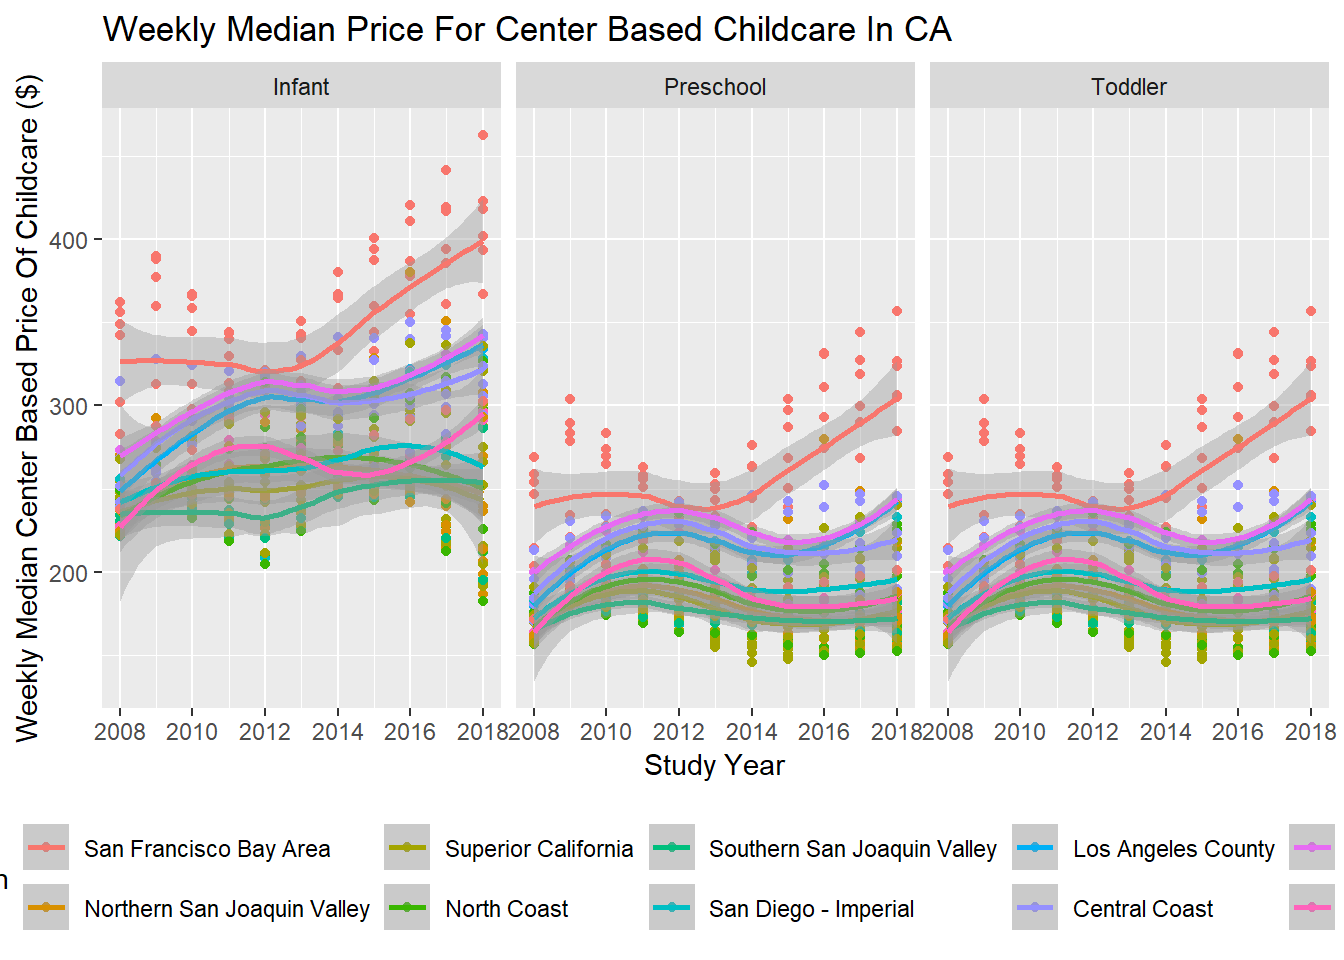
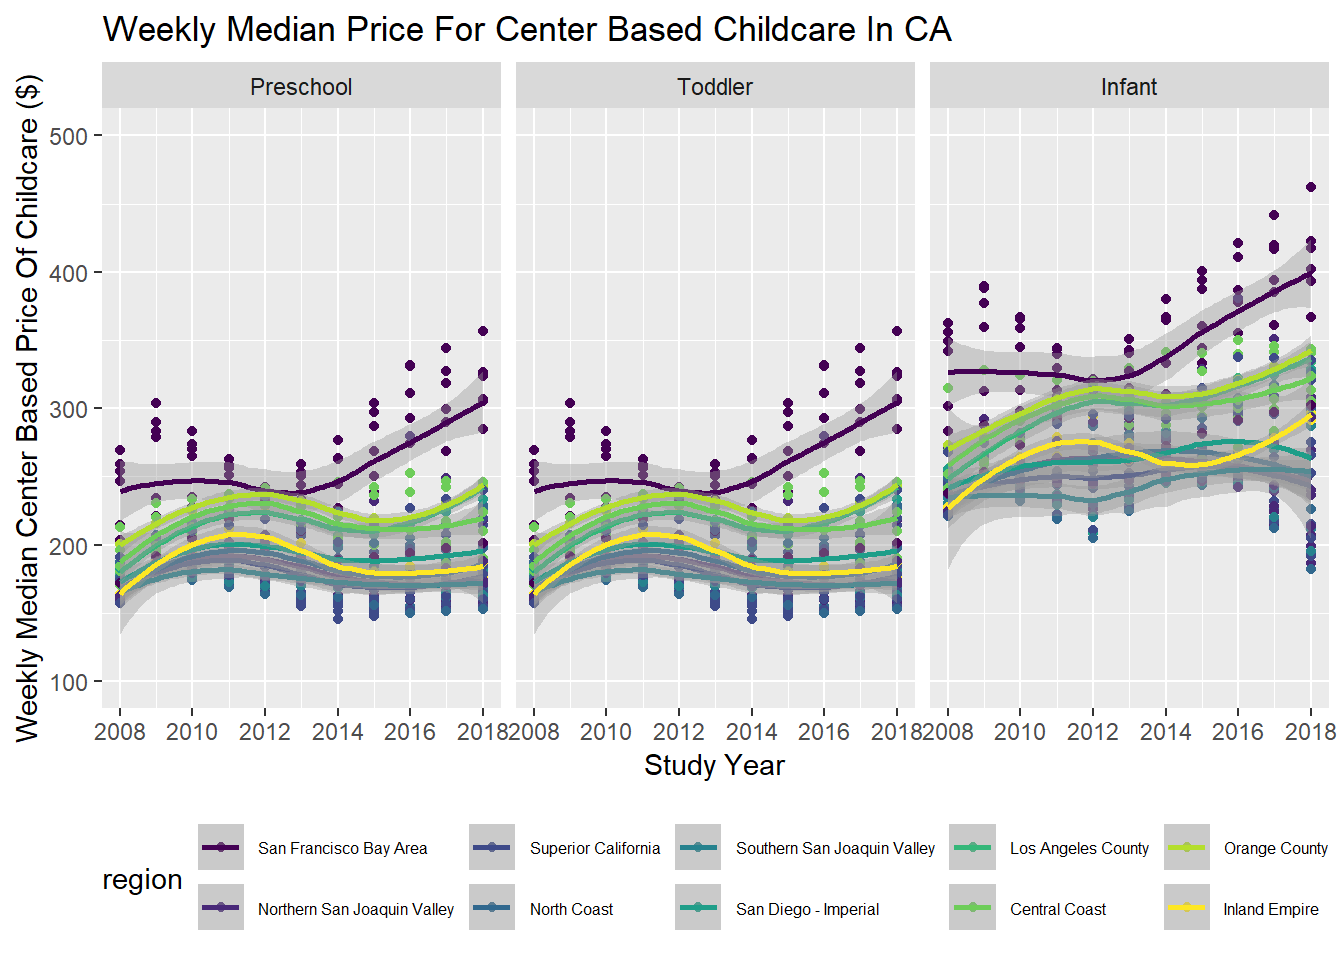
Almost done with quest #6 graph

diff --git a/lab-6-mckegneyr.html b/lab-6-mckegneyr.html
@@ -256,26 +256,26 @@ pre > code.sourceCode > span > a:first-child::before { text-decoration: underlin
 <p><strong>6. Recreate the plot (look at online instructions) that shows, for all ten regions, the change over time of the full-time median price for center-based childcare for infants, toddlers, and preschoolers. Recreate the plot. You do not have to replicate the exact colors or theme, but your plot should have the same content, including the order of the facets and legend, reader-friendly labels, axes breaks, and a smooth function.</strong></p>
 <div class="cell">
 <div class="sourceCode cell-code" id="annotated-cell-7"><pre class="sourceCode r code-annotation-code code-with-copy code-annotated"><code class="sourceCode r"><span id="annotated-cell-7-1"><a href="#annotated-cell-7-1" aria-hidden="true" tabindex="-1"></a>ca_childcare <span class="sc">|&gt;</span></span>
-<span id="annotated-cell-7-2"><a href="#annotated-cell-7-2" aria-hidden="true" tabindex="-1"></a>  <span class="fu">select</span>(study_year, county_name, mc_infant, mc_toddler, mc_preschool, region) <span class="sc">|&gt;</span></span>
-<span id="annotated-cell-7-3"><a href="#annotated-cell-7-3" aria-hidden="true" tabindex="-1"></a><span class="co">#  mutate(study_year = years(study_year)) |&gt;</span></span>
-<span id="annotated-cell-7-4"><a href="#annotated-cell-7-4" aria-hidden="true" tabindex="-1"></a>  <span class="fu">pivot_longer</span>(<span class="at">cols =</span> <span class="fu">starts_with</span>(<span class="st">"mc_"</span>),</span>
-<span id="annotated-cell-7-5"><a href="#annotated-cell-7-5" aria-hidden="true" tabindex="-1"></a>               <span class="at">names_to =</span> <span class="st">"childcare_youth_type"</span>, </span>
-<a class="code-annotation-anchor" data-target-cell="annotated-cell-7" data-target-annotation="3" onclick="event.preventDefault();" href="">3</a><span id="annotated-cell-7-6" class="code-annotation-target"><a href="#annotated-cell-7-6" aria-hidden="true" tabindex="-1"></a>               <span class="at">values_to =</span> <span class="st">"med_center_childcare_value"</span>) <span class="sc">|&gt;</span></span>
-<span id="annotated-cell-7-7"><a href="#annotated-cell-7-7" aria-hidden="true" tabindex="-1"></a>  <span class="fu">mutate</span>(<span class="at">childcare_youth_type =</span> <span class="fu">fct_recode</span>(childcare_youth_type, </span>
-<a class="code-annotation-anchor" data-target-cell="annotated-cell-7" data-target-annotation="4" onclick="event.preventDefault();" href="">4</a><span id="annotated-cell-7-8" class="code-annotation-target"><a href="#annotated-cell-7-8" aria-hidden="true" tabindex="-1"></a>                                           <span class="st">"Infant"</span> <span class="ot">=</span> <span class="st">"mc_infant"</span>,</span>
-<span id="annotated-cell-7-9"><a href="#annotated-cell-7-9" aria-hidden="true" tabindex="-1"></a>                                           <span class="st">"Toddler"</span> <span class="ot">=</span> <span class="st">"mc_toddler"</span>,                </span>
-<span id="annotated-cell-7-10"><a href="#annotated-cell-7-10" aria-hidden="true" tabindex="-1"></a>                                           <span class="st">"Preschool"</span> <span class="ot">=</span> <span class="st">"mc_preschool"</span>)) <span class="sc">|&gt;</span></span>
-<span id="annotated-cell-7-11"><a href="#annotated-cell-7-11" aria-hidden="true" tabindex="-1"></a><span class="co">#  mutate(med_center_childcare_value = as.factor(med_center_childcare_value)) |&gt;</span></span>
-<span id="annotated-cell-7-12"><a href="#annotated-cell-7-12" aria-hidden="true" tabindex="-1"></a>  <span class="fu">ggplot</span>() <span class="sc">+</span></span>
-<span id="annotated-cell-7-13"><a href="#annotated-cell-7-13" aria-hidden="true" tabindex="-1"></a>  <span class="fu">geom_point</span>(<span class="fu">aes</span>(<span class="at">x =</span> study_year, <span class="at">y =</span> med_center_childcare_value, <span class="at">color =</span> region)) <span class="sc">+</span></span>
-<span id="annotated-cell-7-14"><a href="#annotated-cell-7-14" aria-hidden="true" tabindex="-1"></a>  <span class="fu">geom_smooth</span>(<span class="fu">aes</span>(<span class="at">x =</span> study_year, <span class="at">y =</span> med_center_childcare_value, <span class="at">color =</span> region)) <span class="sc">+</span></span>
-<span id="annotated-cell-7-15"><a href="#annotated-cell-7-15" aria-hidden="true" tabindex="-1"></a>  <span class="fu">scale_y_continuous</span>(<span class="at">breaks =</span> <span class="fu">c</span>(<span class="dv">100</span>, <span class="dv">200</span>, <span class="dv">300</span>, <span class="dv">400</span>, <span class="dv">500</span>)) <span class="sc">+</span></span>
-<span id="annotated-cell-7-16"><a href="#annotated-cell-7-16" aria-hidden="true" tabindex="-1"></a>  <span class="fu">scale_x_continuous</span>(<span class="at">breaks =</span> <span class="fu">c</span>(<span class="dv">2008</span>, <span class="dv">2010</span>, <span class="dv">2012</span>, <span class="dv">2014</span>, <span class="dv">2016</span>, <span class="dv">2018</span>)) <span class="sc">+</span></span>
-<span id="annotated-cell-7-17"><a href="#annotated-cell-7-17" aria-hidden="true" tabindex="-1"></a>  <span class="fu">facet_wrap</span>(<span class="sc">~</span> childcare_youth_type) <span class="sc">+</span></span>
-<span id="annotated-cell-7-18"><a href="#annotated-cell-7-18" aria-hidden="true" tabindex="-1"></a>  <span class="fu">labs</span>(<span class="at">title =</span> <span class="st">"Weekly Median Price For Center Based Childcare In CA"</span>,</span>
-<span id="annotated-cell-7-19"><a href="#annotated-cell-7-19" aria-hidden="true" tabindex="-1"></a>       <span class="at">x =</span> <span class="st">"Study Year"</span>,</span>
-<span id="annotated-cell-7-20"><a href="#annotated-cell-7-20" aria-hidden="true" tabindex="-1"></a>       <span class="at">y =</span> <span class="st">"Weekly Median Center Based Price Of Childcare ($)"</span>) <span class="sc">+</span></span>
-<span id="annotated-cell-7-21"><a href="#annotated-cell-7-21" aria-hidden="true" tabindex="-1"></a>  <span class="fu">theme</span>(<span class="at">legend.position =</span> <span class="st">"bottom"</span>)</span><div class="code-annotation-gutter-bg"></div><div class="code-annotation-gutter"></div></code><button title="Copy to Clipboard" class="code-copy-button"><i class="bi"></i></button></pre></div>
+<span id="annotated-cell-7-2"><a href="#annotated-cell-7-2" aria-hidden="true" tabindex="-1"></a>  <span class="fu">select</span>(study_year, county_name, mc_infant, mc_toddler, mc_preschool, region) <span class="sc">|&gt;</span> <span class="co"># Select cols used</span></span>
+<span id="annotated-cell-7-3"><a href="#annotated-cell-7-3" aria-hidden="true" tabindex="-1"></a>  <span class="fu">pivot_longer</span>(<span class="at">cols =</span> <span class="fu">starts_with</span>(<span class="st">"mc_"</span>), <span class="co"># Merge three numerical cols into one, select cols by "mc_"</span></span>
+<span id="annotated-cell-7-4"><a href="#annotated-cell-7-4" aria-hidden="true" tabindex="-1"></a>               <span class="at">names_to =</span> <span class="st">"childcare_youth_type"</span>, <span class="co"># Move three categorical vars into a col</span></span>
+<span id="annotated-cell-7-5"><a href="#annotated-cell-7-5" aria-hidden="true" tabindex="-1"></a>               <span class="at">values_to =</span> <span class="st">"med_center_childcare_value"</span>) <span class="sc">|&gt;</span> <span class="co"># Move all numerical values into another col</span></span>
+<a class="code-annotation-anchor" data-target-cell="annotated-cell-7" data-target-annotation="3" onclick="event.preventDefault();" href="">3</a><span id="annotated-cell-7-6" class="code-annotation-target"><a href="#annotated-cell-7-6" aria-hidden="true" tabindex="-1"></a>  <span class="fu">mutate</span>(<span class="at">childcare_youth_type =</span> <span class="fu">fct_recode</span>(childcare_youth_type,</span>
+<a class="code-annotation-anchor" data-target-cell="annotated-cell-7" data-target-annotation="4" onclick="event.preventDefault();" href="">4</a><span id="annotated-cell-7-7" class="code-annotation-target"><a href="#annotated-cell-7-7" aria-hidden="true" tabindex="-1"></a>                                           <span class="st">"Infant"</span> <span class="ot">=</span> <span class="st">"mc_infant"</span>,</span>
+<span id="annotated-cell-7-8"><a href="#annotated-cell-7-8" aria-hidden="true" tabindex="-1"></a>                                           <span class="st">"Toddler"</span> <span class="ot">=</span> <span class="st">"mc_toddler"</span>,                </span>
+<span id="annotated-cell-7-9"><a href="#annotated-cell-7-9" aria-hidden="true" tabindex="-1"></a>                                           <span class="st">"Preschool"</span> <span class="ot">=</span> <span class="st">"mc_preschool"</span>)) <span class="sc">|&gt;</span> <span class="co"># Change names of categorical col variables into simple description for graph </span></span>
+<span id="annotated-cell-7-10"><a href="#annotated-cell-7-10" aria-hidden="true" tabindex="-1"></a>  <span class="fu">ggplot</span>() <span class="sc">+</span> </span>
+<span id="annotated-cell-7-11"><a href="#annotated-cell-7-11" aria-hidden="true" tabindex="-1"></a>  <span class="fu">geom_point</span>(<span class="fu">aes</span>(<span class="at">x =</span> study_year, <span class="at">y =</span> med_center_childcare_value, <span class="at">color =</span> region)) <span class="sc">+</span></span>
+<span id="annotated-cell-7-12"><a href="#annotated-cell-7-12" aria-hidden="true" tabindex="-1"></a>  <span class="fu">geom_smooth</span>(<span class="fu">aes</span>(<span class="at">x =</span> study_year, <span class="at">y =</span> med_center_childcare_value, <span class="at">color =</span> region)) <span class="sc">+</span> </span>
+<a class="code-annotation-anchor" data-target-cell="annotated-cell-7" data-target-annotation="5" onclick="event.preventDefault();" href="">5</a><span id="annotated-cell-7-13" class="code-annotation-target"><a href="#annotated-cell-7-13" aria-hidden="true" tabindex="-1"></a>  <span class="fu">facet_wrap</span>(<span class="sc">~</span> <span class="fu">fct_reorder</span>(childcare_youth_type, med_center_childcare_value)) <span class="sc">+</span></span>
+<span id="annotated-cell-7-14"><a href="#annotated-cell-7-14" aria-hidden="true" tabindex="-1"></a>                                                                                 <span class="co"># Facet numerical values by categorical col</span></span>
+<span id="annotated-cell-7-15"><a href="#annotated-cell-7-15" aria-hidden="true" tabindex="-1"></a>  <span class="fu">labs</span>(<span class="at">title =</span> <span class="st">"Weekly Median Price For Center Based Childcare In CA"</span>,</span>
+<span id="annotated-cell-7-16"><a href="#annotated-cell-7-16" aria-hidden="true" tabindex="-1"></a>       <span class="at">x =</span> <span class="st">"Study Year"</span>,</span>
+<span id="annotated-cell-7-17"><a href="#annotated-cell-7-17" aria-hidden="true" tabindex="-1"></a>       <span class="at">y =</span> <span class="st">"Weekly Median Center Based Price Of Childcare ($)"</span>) <span class="sc">+</span></span>
+<span id="annotated-cell-7-18"><a href="#annotated-cell-7-18" aria-hidden="true" tabindex="-1"></a>  <span class="fu">theme</span>(<span class="at">legend.position =</span> <span class="st">"bottom"</span>, <span class="at">legend.text =</span> <span class="fu">element_text</span>(<span class="at">size =</span> <span class="dv">6</span>)) <span class="sc">+</span> <span class="co"># Adjust legend position &amp; size</span></span>
+<span id="annotated-cell-7-19"><a href="#annotated-cell-7-19" aria-hidden="true" tabindex="-1"></a>  <span class="fu">scale_y_continuous</span>(<span class="at">limits =</span> <span class="fu">c</span>(<span class="dv">100</span>, <span class="dv">500</span>)) <span class="sc">+</span> <span class="co"># Set y-axis value range &amp; tick marks</span></span>
+<span id="annotated-cell-7-20"><a href="#annotated-cell-7-20" aria-hidden="true" tabindex="-1"></a>  <span class="fu">scale_x_continuous</span>(<span class="at">breaks =</span> <span class="fu">c</span>(<span class="dv">2008</span>, <span class="dv">2010</span>, <span class="dv">2012</span>, <span class="dv">2014</span>, <span class="dv">2016</span>, <span class="dv">2018</span>)) <span class="sc">+</span> <span class="co"># Set x-axis year tick marks</span></span>
+<span id="annotated-cell-7-21"><a href="#annotated-cell-7-21" aria-hidden="true" tabindex="-1"></a>  <span class="fu">scale_color_viridis_d</span>() </span><div class="code-annotation-gutter-bg"></div><div class="code-annotation-gutter"></div></code><button title="Copy to Clipboard" class="code-copy-button"><i class="bi"></i></button></pre></div>
 <div class="cell-annotation">
 <dl class="code-annotation-container-grid">
 <dt data-target-cell="annotated-cell-7" data-target-annotation="3">3</dt>
@@ -284,7 +284,11 @@ pre > code.sourceCode > span > a:first-child::before { text-decoration: underlin
 </dd>
 <dt data-target-cell="annotated-cell-7" data-target-annotation="4">4</dt>
 <dd>
-<span data-code-cell="annotated-cell-7" data-code-lines="8" data-code-annotation="4">Reference used as troubleshoot that reminded me the order to specify naming, as fct_recode(column, “new_name” = “old_name”). <a href="https://stackoverflow.com/questions/67197228/changing-variable-name-in-box-plot-using-fct-recode" class="uri">https://stackoverflow.com/questions/67197228/changing-variable-name-in-box-plot-using-fct-recode</a></span>
+<span data-code-cell="annotated-cell-7" data-code-lines="7" data-code-annotation="4">Reference used as troubleshoot that reminded me the order to specify naming, as fct_recode(column, “new_name” = “old_name”). <a href="https://stackoverflow.com/questions/67197228/changing-variable-name-in-box-plot-using-fct-recode" class="uri">https://stackoverflow.com/questions/67197228/changing-variable-name-in-box-plot-using-fct-recode</a>.</span>
+</dd>
+<dt data-target-cell="annotated-cell-7" data-target-annotation="5">5</dt>
+<dd>
+<span data-code-cell="annotated-cell-7" data-code-lines="13" data-code-annotation="5">Reference used to utilize fct_reorder: <a href="https://mpn.metworx.com/packages/forcats/0.5.0/reference/fct_reorder.html" class="uri">https://mpn.metworx.com/packages/forcats/0.5.0/reference/fct_reorder.html</a>.</span>
 </dd>
 </dl>
 </div>
@@ -298,7 +302,6 @@ pre > code.sourceCode > span > a:first-child::before { text-decoration: underlin
 </figure>
 </div>
 </div>
-<div class="sourceCode cell-code" id="cb10"><pre class="sourceCode r code-with-copy"><code class="sourceCode r"><span id="cb10-1"><a href="#cb10-1" aria-hidden="true" tabindex="-1"></a><span class="co">#  theme_grey()</span></span></code><button title="Copy to Clipboard" class="code-copy-button"><i class="bi"></i></button></pre></div>
 </div>
 </section>
 <section id="data-sources" class="level1">
@@ -315,6 +318,7 @@ pre > code.sourceCode > span > a:first-child::before { text-decoration: underlin
 <li><p>Wickham H and Posit (2023). Forcats, “Function reference”. <a href="https://forcats.tidyverse.org/reference/index.html" class="uri">https://forcats.tidyverse.org/reference/index.html</a>.</p></li>
 <li><p>Wickham H and Posit (2023). Forcats, “Change factor levels by hand”. Source code: <a href="https://github.com/tidyverse/forcats/blob/HEAD/R/recode.R" class="uri">https://github.com/tidyverse/forcats/blob/HEAD/R/recode.R</a>. website url: <a href="https://forcats.tidyverse.org/reference/fct_recode.html" class="uri">https://forcats.tidyverse.org/reference/fct_recode.html</a>.</p></li>
 <li><p>Stackoverflow. “changing variable name in box plot using fct_recode”. Last modified 2021-04-22. <a href="https://stackoverflow.com/questions/67197228/changing-variable-name-in-box-plot-using-fct-recode" class="uri">https://stackoverflow.com/questions/67197228/changing-variable-name-in-box-plot-using-fct-recode</a>.</p></li>
+<li><p>Forcats. Developed by Hadley Wickham, Rstudio. “Reorder factor levels by sorting along another variable”. Source code: <a href="https://github.com/tidyverse/forcats/blob/main/R/reorder.R" class="uri">https://github.com/tidyverse/forcats/blob/main/R/reorder.R</a>. Webpage html url: <a href="https://mpn.metworx.com/packages/forcats/0.5.0/reference/fct_reorder.html" class="uri">https://mpn.metworx.com/packages/forcats/0.5.0/reference/fct_reorder.html</a>.</p></li>
 </ol>
 </section>
 
